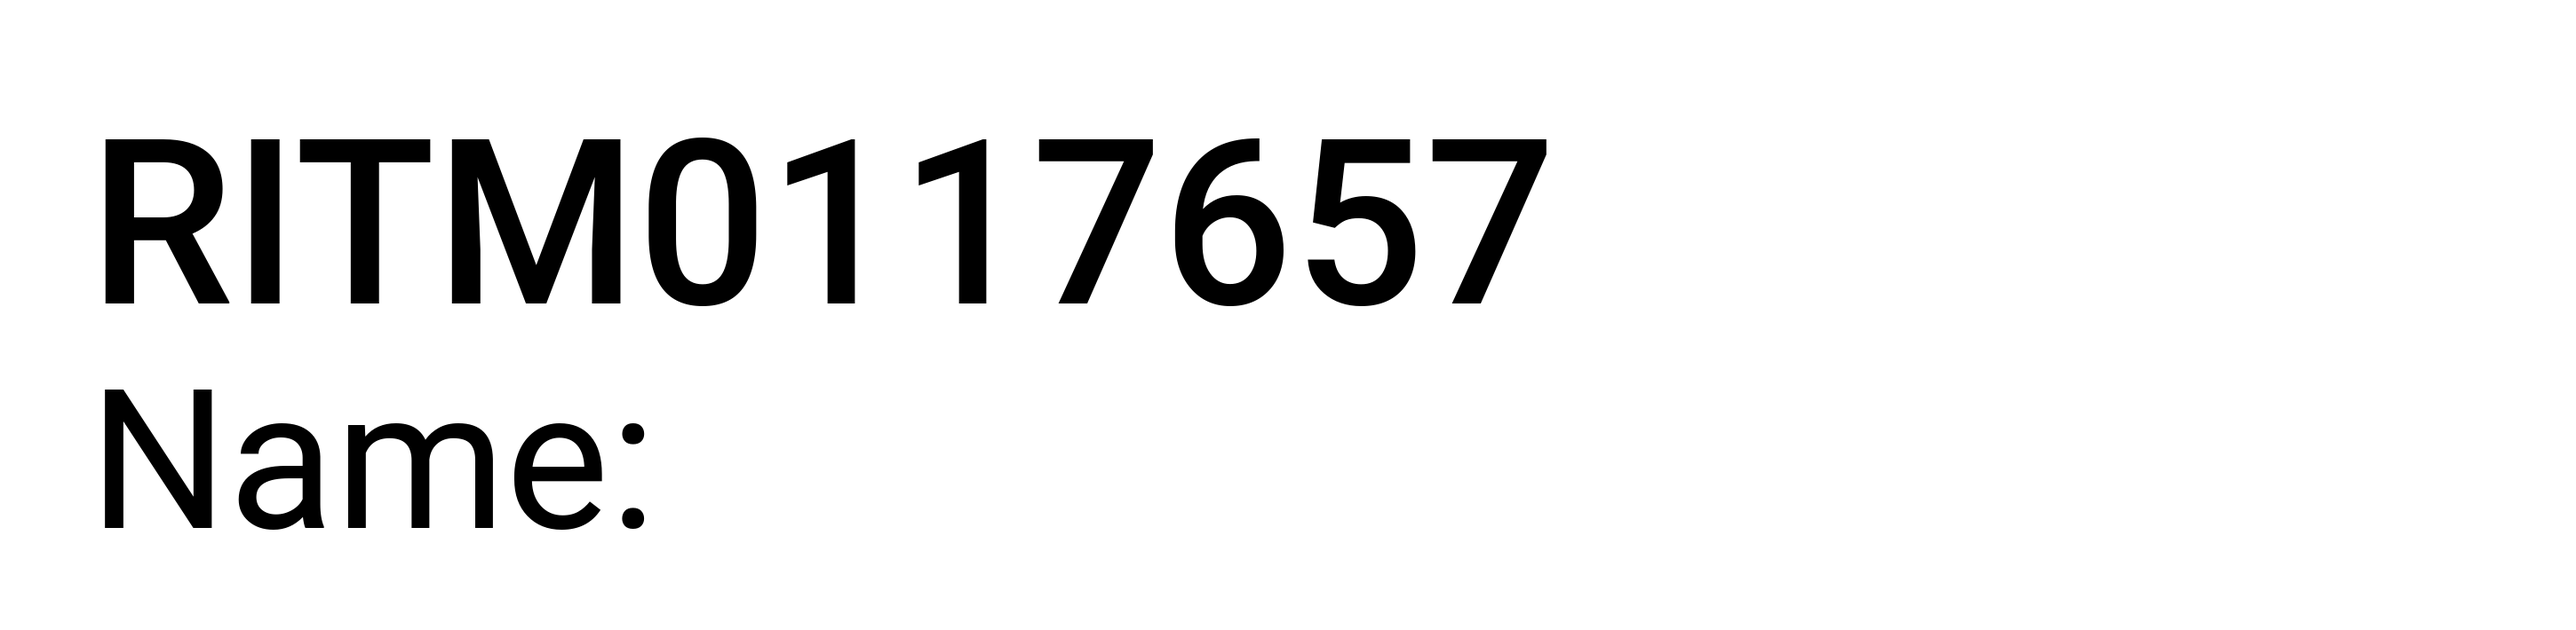
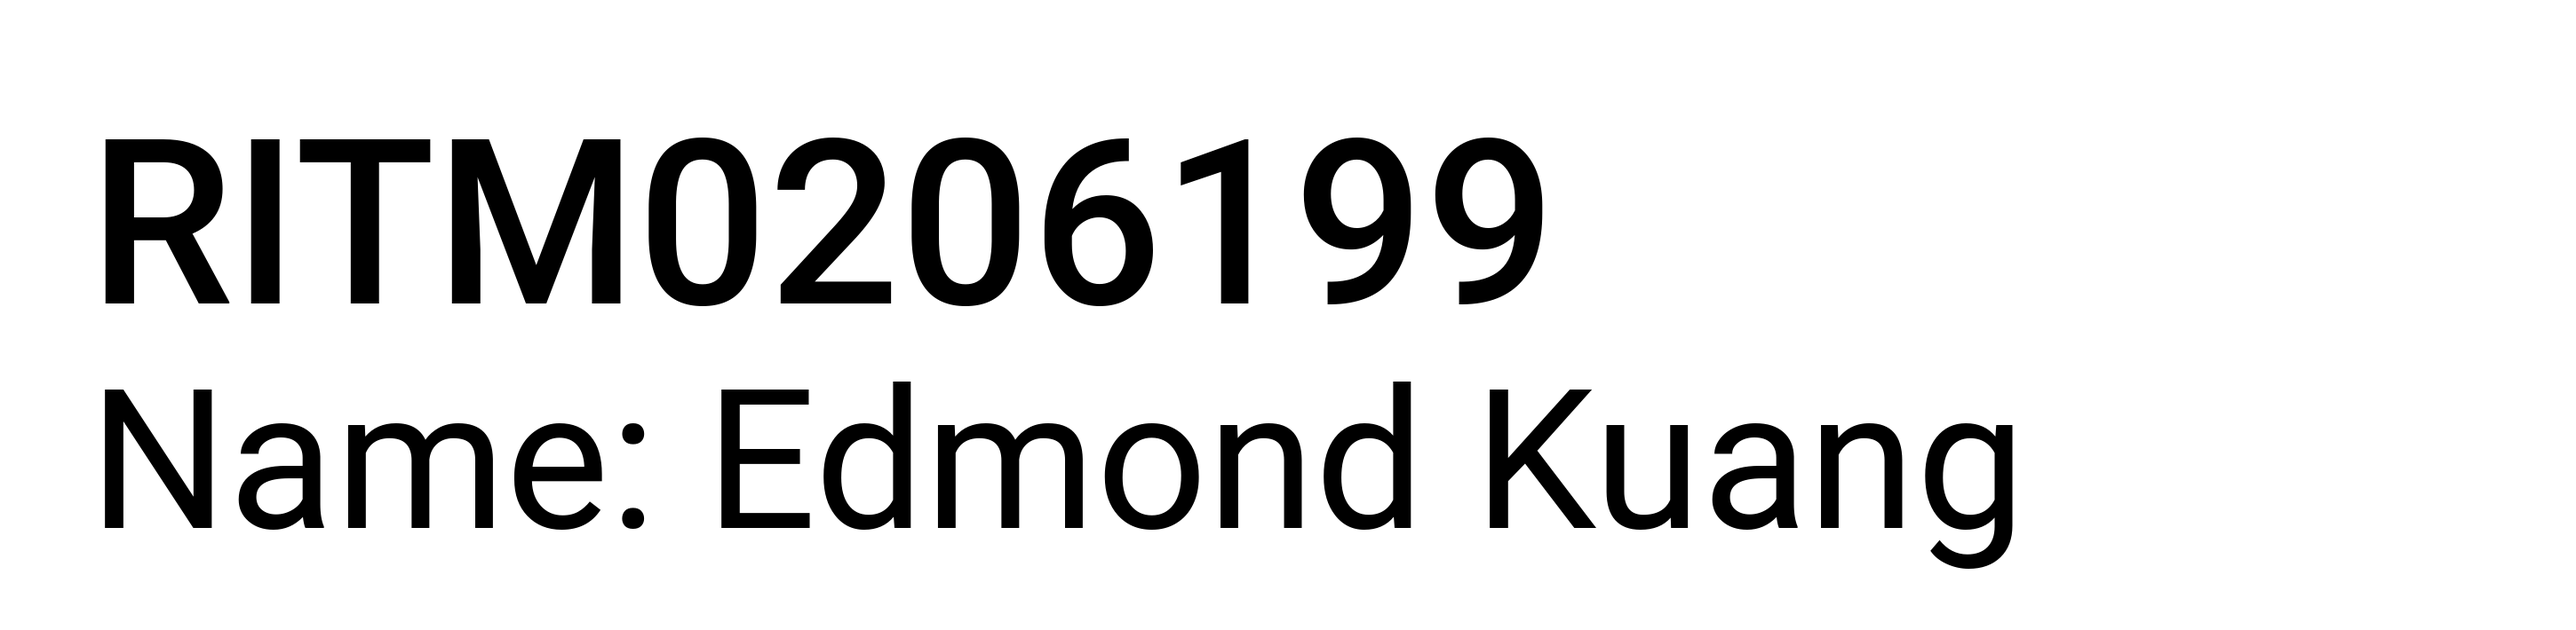
trying to fix resnet

Changed region(s): [[0.2793, 0.5887, 0.8069, 0.8986], [0.2793, 0.2169, 0.6207, 0.4958]]

diff --git a/templates/calendar.html b/templates/calendar.html
@@ -31,7 +31,7 @@
             justify-content: space-between;
             align-items: flex-start;
             align-content: flex-start;
-            overflow: hidden;
+            overflow: clip;
             column-gap: 25vw;
             margin: 0;
             padding: 0.5vh 0.5vw 0.5vh 0.5vw;
@@ -135,10 +135,12 @@
             <div id="types">
                 <h2>📦: Inbound Computer</h2>
                 <h2>🖥✨: Outbound</h2>
+		<h2>🎓: Resnet</h2>
+		<h2>🚨: Computer Return</h2>
                 <h2>🔥🗑🔥: Inbound Ewaste</h2>
                 <h2>🚚: Ewaste (to receiving)</h2>
                 <h2>⁉: Unknown</h2>
-            </div>
+		</div>
         </div>
         <div width="100%">
             <img src="{{ url_for('static', filename='schedule.png') }}">

diff --git a/schedule.py b/schedule.py
@@ -2,52 +2,96 @@ import json
 import math
 import os.path
 import traceback
+import urllib.request
 from collections import defaultdict
 from datetime import datetime, timedelta, timezone
+from zoneinfo import ZoneInfo
 
 import numpy as np
-from google.auth.transport.requests import Request
-from google.oauth2.credentials import Credentials
-from google_auth_oauthlib.flow import InstalledAppFlow
-from googleapiclient.discovery import build
 from PIL import Image, ImageDraw, ImageFont
-
-# If modifying these scopes, delete the file cal_token.json.
-SCOPES = ["https://www.googleapis.com/auth/calendar.readonly"]
-
-CALENDAR_ID = "cu1q702bdajlgk26ptpq88177d4g00ke@import.calendar.google.com"
 
 START = 0
 ONGOING = 1
 
-creds = None
-# The file cal_token.json stores the user's access and refresh tokens, and is
-# created automatically when the authorization flow completes for the first
-# time.
-token_path = os.path.join(os.path.abspath(os.path.dirname(__file__)), "cal_token.json")
+path = os.path.abspath(os.path.dirname(__file__))
 
-try:
-    if os.path.exists(token_path):
-        creds = Credentials.from_authorized_user_file(token_path, SCOPES)
-except:
-    print(f"cal.py: {traceback.format_exc()}")
-    creds = None
+# The When I Work feed url carries an access token, so it is kept out of here.
+# See schedule_feed.json.example for the shape of the file.
+FEED_PATH = os.path.join(path, "common/schedule_feed.json")
 
-# If there are no (valid) credentials available, let the user log in.
-if not creds or not creds.valid:
-    if creds and creds.expired and creds.refresh_token:
-        creds.refresh(Request())
+# Used only if the feed does not name its own timezone.
+DEFAULT_TZ = "America/Los_Angeles"
+
+
+def get_feed_url():
+    with open(FEED_PATH) as f:
+        return json.load(f)["url"]
+
+
+def fetch_ics(url):
+    request = urllib.request.Request(url, headers={"User-Agent": "depot-server"})
+    with urllib.request.urlopen(request, timeout=60) as response:
+        return response.read().decode("utf-8")
+
+
+def parse_ics(text):
+    """Pull the VEVENTs out of an ics feed.
+
+    The When I Work export has no RRULEs, so there is nothing to expand and
+    each VEVENT is one shift.
+    """
+    # Unfold: ics wraps long lines at 75 characters, continuing with a space.
+    text = text.replace("\r\n", "\n").replace("\n ", "").replace("\n\t", "")
+
+    calendar = {}
+    events = []
+    event = None
+
+    for line in text.split("\n"):
+        if line == "BEGIN:VEVENT":
+            event = {}
+            continue
+        if line == "END:VEVENT":
+            events.append(event)
+            event = None
+            continue
+        if ":" not in line:
+            continue
+
+        key, value = line.split(":", 1)
+        params = key.split(";")
+        name = params[0]
+
+        target = calendar if event is None else event
+        target[name] = value
+        for param in params[1:]:
+            if param.startswith("TZID="):
+                target[f"{name}_tzid"] = param[len("TZID=") :]
+
+    return calendar, events
+
+
+def ics_datetime(value, tzid, tz):
+    """20260903T180000Z, 20260903T180000 or 20260903 -> aware datetime in tz."""
+    if value.endswith("Z"):
+        dt = datetime.strptime(value, "%Y%m%dT%H%M%SZ").replace(tzinfo=timezone.utc)
+    elif "T" in value:
+        dt = datetime.strptime(value, "%Y%m%dT%H%M%S")
+        dt = dt.replace(tzinfo=ZoneInfo(tzid) if tzid else tz)
     else:
-        flow = InstalledAppFlow.from_client_secrets_file(
-            os.path.join(
-                os.path.abspath(os.path.dirname(__file__)), "credentials.json"
-            ),
-            SCOPES,
-        )
-        creds = flow.run_local_server(port=0, open_browser=False)
-    # Save the credentials for the next run
-    with open(token_path, "w") as token:
-        token.write(creds.to_json())
+        dt = datetime.strptime(value, "%Y%m%d").replace(tzinfo=tz)
+
+    return dt.astimezone(tz)
+
+
+def get_colors():
+    """Name -> #rrggbb. Missing or broken file just means uncoloured blocks."""
+    try:
+        with open(os.path.join(path, "common/schedule_colours.json")) as f:
+            return json.load(f)
+    except Exception:
+        print(f"schedule.get_colors(): {traceback.format_exc()}")
+        return {}
 
 
 def linear_gradient(i, poly, p1, p2, c1, c2):
@@ -96,71 +140,56 @@ def linear_gradient(i, poly, p1, p2, c1, c2):
 
 
 def get_events():
-    events = []
     try:
-        service = build("calendar", "v3", credentials=creds)
+        calendar, raw = parse_ics(fetch_ics(get_feed_url()))
+        tz = ZoneInfo(calendar.get("X-WR-TIMEZONE", DEFAULT_TZ))
 
-        # Call the Calendar API
-        today = (
-            datetime.now()
-            .replace(hour=0, minute=0, second=0, microsecond=0)
-            .astimezone(timezone.utc)
-        )
-
+        today = datetime.now(tz).replace(hour=0, minute=0, second=0, microsecond=0)
         tonight = today + timedelta(days=1)
-
-        events_result = (
-            service.events()
-            .list(
-                calendarId=CALENDAR_ID,
-                timeMin=today.isoformat(),
-                timeMax=tonight.isoformat(),
-                maxResults=20,
-                singleEvents=True,
-                orderBy="startTime",
-                eventTypes="default",
-            )
-            .execute()
-        )
-        events = events_result.get("items", [])
 
         schedule = []
 
-        start = tonight
-        end = today
+        # Hours of the day the board has to span, as decimals past midnight.
+        min_dec = 24.0
+        max_dec = 0.0
 
-        # start_end_events = []
         events_by_hour = defaultdict(list)
 
-        for event in events:
-            if (
-                "summary" not in event
-                or "start" not in event
-                or "dateTime" not in event["start"]
-            ):
+        for event in sorted(raw, key=lambda e: e.get("DTSTART", "")):
+            if "SUMMARY" not in event or "DTSTART" not in event or "DTEND" not in event:
                 continue
 
+            dt_start = ics_datetime(event["DTSTART"], event.get("DTSTART_tzid"), tz)
+            dt_end = ics_datetime(event["DTEND"], event.get("DTEND_tzid"), tz)
+
+            # The board only shows today.
+            if dt_end <= today or dt_start >= tonight:
+                continue
+
+            # A shift crossing midnight is clipped to the day being drawn.
+            dt_start = max(dt_start, today)
+            dt_end = min(dt_end, tonight)
+
             e = dict()
-            e["name"] = event["summary"][: event["summary"].find(" (")]
-            e["start"] = event["start"]["dateTime"]
-            e["end"] = event["end"]["dateTime"]
 
-            dt_start = datetime.fromisoformat(e["start"])
-            if dt_start < start:
-                start = dt_start
+            # "Name (Shift as Depot Technician at Hardware Depot)" -> "Name".
+            summary = event["SUMMARY"]
+            cut = summary.find(" (")
+            e["name"] = summary[:cut] if cut != -1 else summary
 
-            dt_end = datetime.fromisoformat(e["end"])
-            if dt_end > end:
-                end = dt_end
+            e["start"] = dt_start.isoformat()
+            e["end"] = dt_end.isoformat()
 
-            e["start_dec"] = dt_start.hour + dt_start.minute / 60
-            e["end_dec"] = dt_end.hour + dt_end.minute / 60
+            # Measured from midnight, so a shift ending at midnight reads 24.
+            e["start_dec"] = (dt_start - today).total_seconds() / 3600
+            e["end_dec"] = (dt_end - today).total_seconds() / 3600
+
+            min_dec = min(min_dec, e["start_dec"])
+            max_dec = max(max_dec, e["end_dec"])
+
             e["idx"] = 0
             e["split"] = 1
             e["shift"] = True
-
-            # start_end_events.append((e["start_dec"], len(schedule), "start"))
-            # start_end_events.append((e["end_dec"], len(schedule), "end"))
 
             events_by_hour[math.floor(e["start_dec"])].append((len(schedule), START))
             for hr in range(math.floor(e["start_dec"]) + 1, math.ceil(e["end_dec"])):
@@ -168,8 +197,12 @@ def get_events():
 
             schedule.append(e)
 
-        start = start.replace(minute=0, second=0, microsecond=0)
-        end = end.replace(minute=0, second=0, microsecond=0)
+        if schedule:
+            start_hr = math.floor(min_dec)
+            end_hr = math.ceil(max_dec)
+        else:
+            # Nothing on today - draw an empty working day rather than nothing.
+            start_hr, end_hr = 8, 18
 
         # start_end_events.sort(key=lambda x: x[0])
         # idx = start.hour
@@ -201,13 +234,13 @@ def get_events():
         img = Image.new("RGB", (w_img, h_img), color=(255, 255, 255))
         d = ImageDraw.Draw(img, "RGBA")
 
-        font = ImageFont.truetype("Roboto-Regular.ttf", 20)
+        font = ImageFont.truetype(os.path.join(path, "Roboto-Regular.ttf"), 20)
         max_hr_width = d.textlength("12AM", font=font)
 
         def get_y(hr):
-            return 10 + (h_img / (end.hour - start.hour + 1)) * (hr - start.hour)
+            return 10 + (h_img / (end_hr - start_hr + 1)) * (hr - start_hr)
 
-        for hr in range(start.hour, end.hour + 1):
+        for hr in range(start_hr, end_hr + 1):
             ampm = "AM" if hr < 12 else "PM"
             txt_hr = hr % 12
             if txt_hr == 0:
@@ -230,13 +263,13 @@ def get_events():
                 width=2,
             )
 
-        colors = json.load(open("schedule_colors.json"))
+        colors = get_colors()
 
         max_event_width = w_img - 30 - max_hr_width
 
         for event in schedule:
             y = get_y(event["start_dec"])
-            h = (h_img / (end.hour - start.hour + 1)) * (
+            h = (h_img / (end_hr - start_hr + 1)) * (
                 event["end_dec"] - event["start_dec"]
             )
 
@@ -289,12 +322,12 @@ def get_events():
             )
 
         now = datetime.now()
-        if now.hour >= start.hour and now.hour <= end.hour:
+        if now.hour >= start_hr and now.hour <= end_hr:
             y = get_y(now.hour + now.minute / 60)
             d.line((10, y, w_img - 10, y), fill=(0, 0, 0), width=4)
             d.circle((w_img - 10, y), 10, fill=(0, 0, 0))
 
-        img.save("static/schedule.png")
+        img.save(os.path.join(path, "static", "schedule.png"))
 
         return schedule
 

diff --git a/parser.py b/parser.py
@@ -85,7 +85,7 @@ def parse_resnet_label(body: str):
     description = re.search(r"Description:\s*(.+)", text)
 
     if opened_by:
-        label.setRequestor(opened_by.group(1).strip())
+        label.setRequestor(client_name.group(1).strip())
     if client_name:
         client_value = client_name.group(1).strip()
         if "(" in client_value and ")" in client_value:
@@ -601,7 +601,8 @@ if __name__ == "__main__":
 
                             lines = [ln.strip() for ln in raw.split("\n") if ln.strip()]
 
-                            opened_by = ""
+                            client_name = ""
+			   # opened_by = ""
                             requestor = ""
                             ritm_id = ""
                             computer_model = ""
@@ -640,7 +641,7 @@ if __name__ == "__main__":
                                     val = value.lower()
                                     verified_access = val in ("true", "yes", "y", "1", "checked", "x")
 
-                            name_val = clean_resnet_name(requestor or opened_by or client_name)
+                            name_val = clean_resnet_name(client_name)
                             name_val = strip_accents(name_val) if name_val else ""
 
                             # Prefer RITM found in header; fall back to incident number if missing

diff --git a/cal.py b/cal.py
@@ -15,6 +15,8 @@ TYPE_INBOUND_COMPUTER = "📦"
 TYPE_UNKNOWN = "⁉"
 TYPE_OUTBOUND = "🖥✨"
 TYPE_EWASTE = "🚚"
+TYPE_RESNET = "🎓"
+TYPE_RETURN = "🚨"
 
 TICKET_STRING = "RITM or INC #\n--------------------\n"
 
@@ -148,6 +150,14 @@ def get_events():
                 e["dir"] = TYPE_INBOUND_EWASTE
             elif "summary" in event and "(Outbound)" in str(event["summary"]):
                 e["dir"] = TYPE_OUTBOUND
+#Begin Michael mucking around
+            elif "summary" in event and "Coming to Depot (Resnet)" in str(event["summary"]):
+                e["dir"] = TYPE_RESNET
+
+            elif "summary" in event and "(Inbound) Return Computer to Depot" in str(event["summary"]):
+                e["dir"] = TYPE_RETURN
+
+#End Michael mucking around
             elif "summary" in event and "Coming to Depot (Pickup or Dropoff)" in str(
                 event["summary"]
             ):
